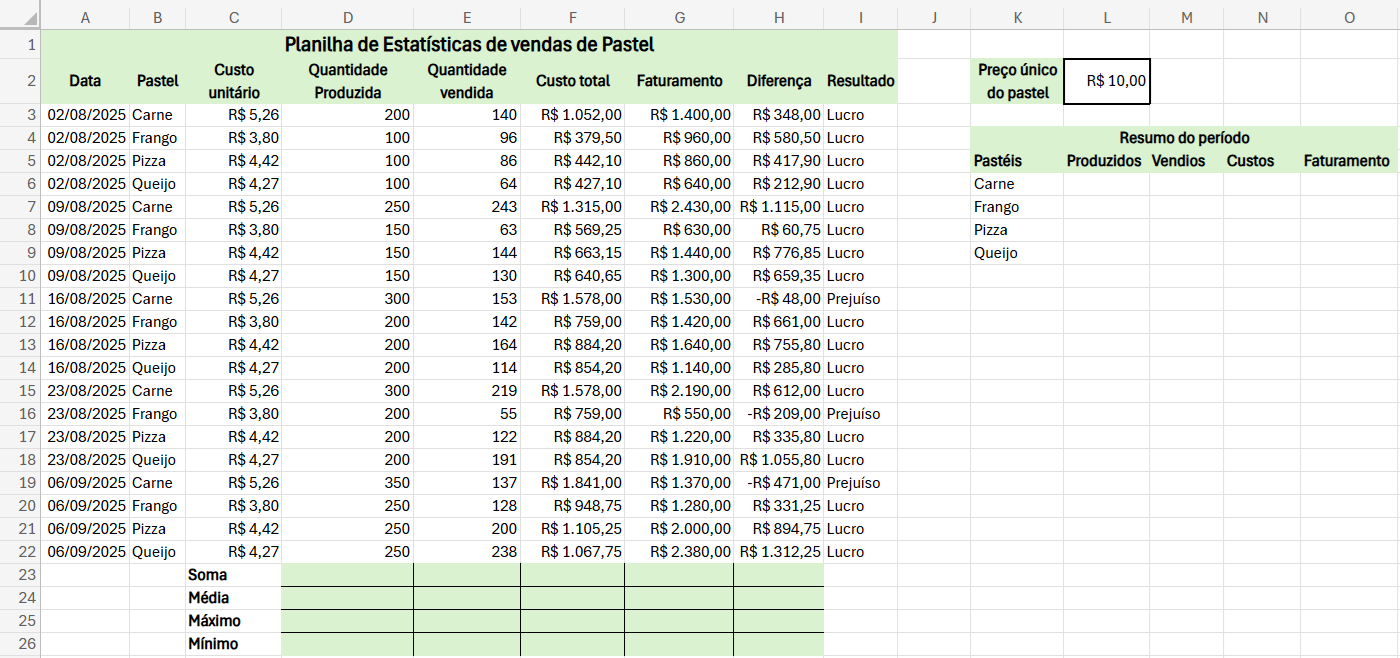
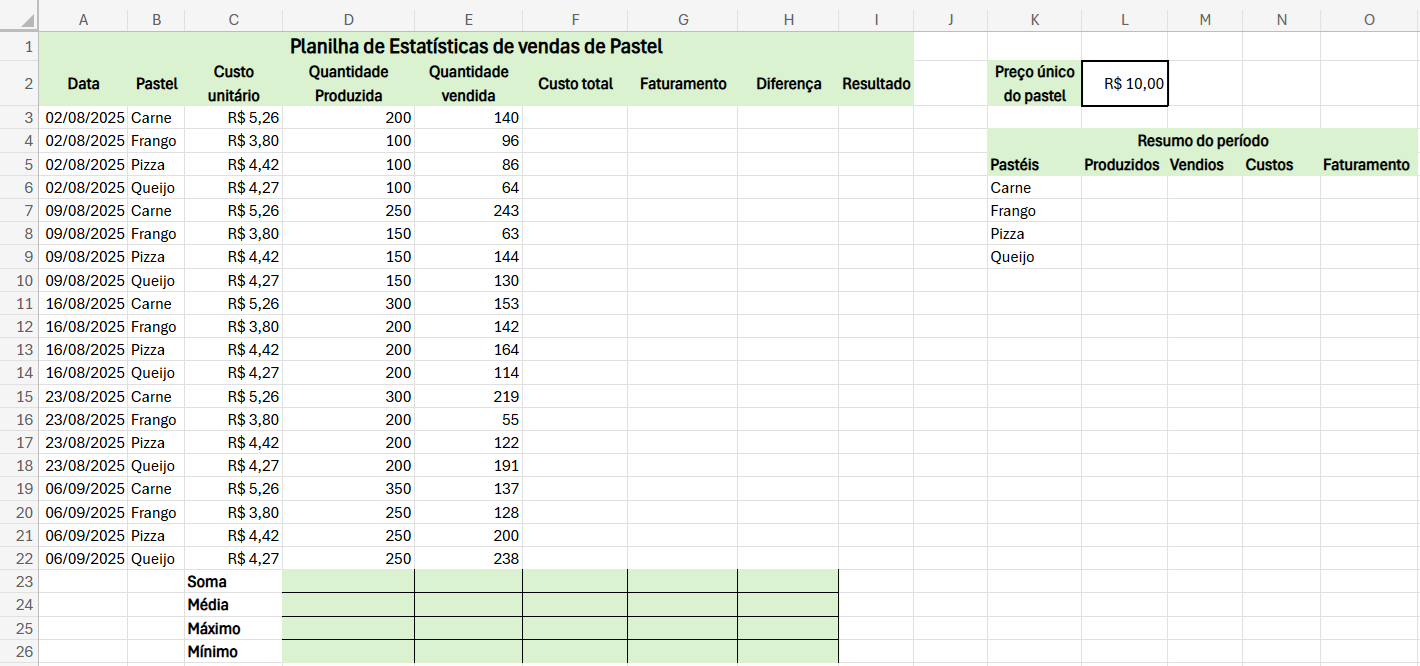
aula04

diff --git a/office/excel/aula04/README.md b/office/excel/aula04/README.md
@@ -6,5 +6,18 @@ Continuando no tema da barraca de pastel, nesta aula vamos aprender a calcular a
  - Calcule o **Faturamento**.
  - Calcule a **Diferença** entre o faturamento e o custo total.
  - Utilize a função **SE()** para verificar se houve lucro ou prejuízo.
+
+|Função SE()|Descrição|
+|-|-|
+|=SE(teste_lógico; valor_se_verdadeiro; valor_se_falso)|Realiza um teste lógico e retorna um valor se o teste for verdadeiro e outro valor se o teste for falso.|
+|=SE(H3>0; "Lucro"; "Prejuíso")|Verifica se o valor na célula H3 é maior que 0. Se for, retorna "Lucro"; caso contrário, retorna "Prejuízo".|
+
  - Por fim calcule a (Soma, Média, Máximo e Mínimo) das Quantidades, Custos, Faturamentos e Diferenças.
+ ![Planilha de vendas Calculada](./estatisticas2.png)
+ 
  - Utilize a função **SOMASE()** para calcular o total produzido, vendido, custos e faturamento de cada sabor de pastel.
+
+|Função SOMASE()|Descrição|
+|-|-|
+|=SOMASE(intervalo; critérios; [intervalo_soma])|Soma os valores em um intervalo que atendem a critérios específicos.|
+|=SOMASE(B3:B22; "Carne"; C3:C22)|Soma os valores na coluna C (C3:C22) onde os valores correspondentes na coluna A (A3:A22) são iguais a "Carne".|
